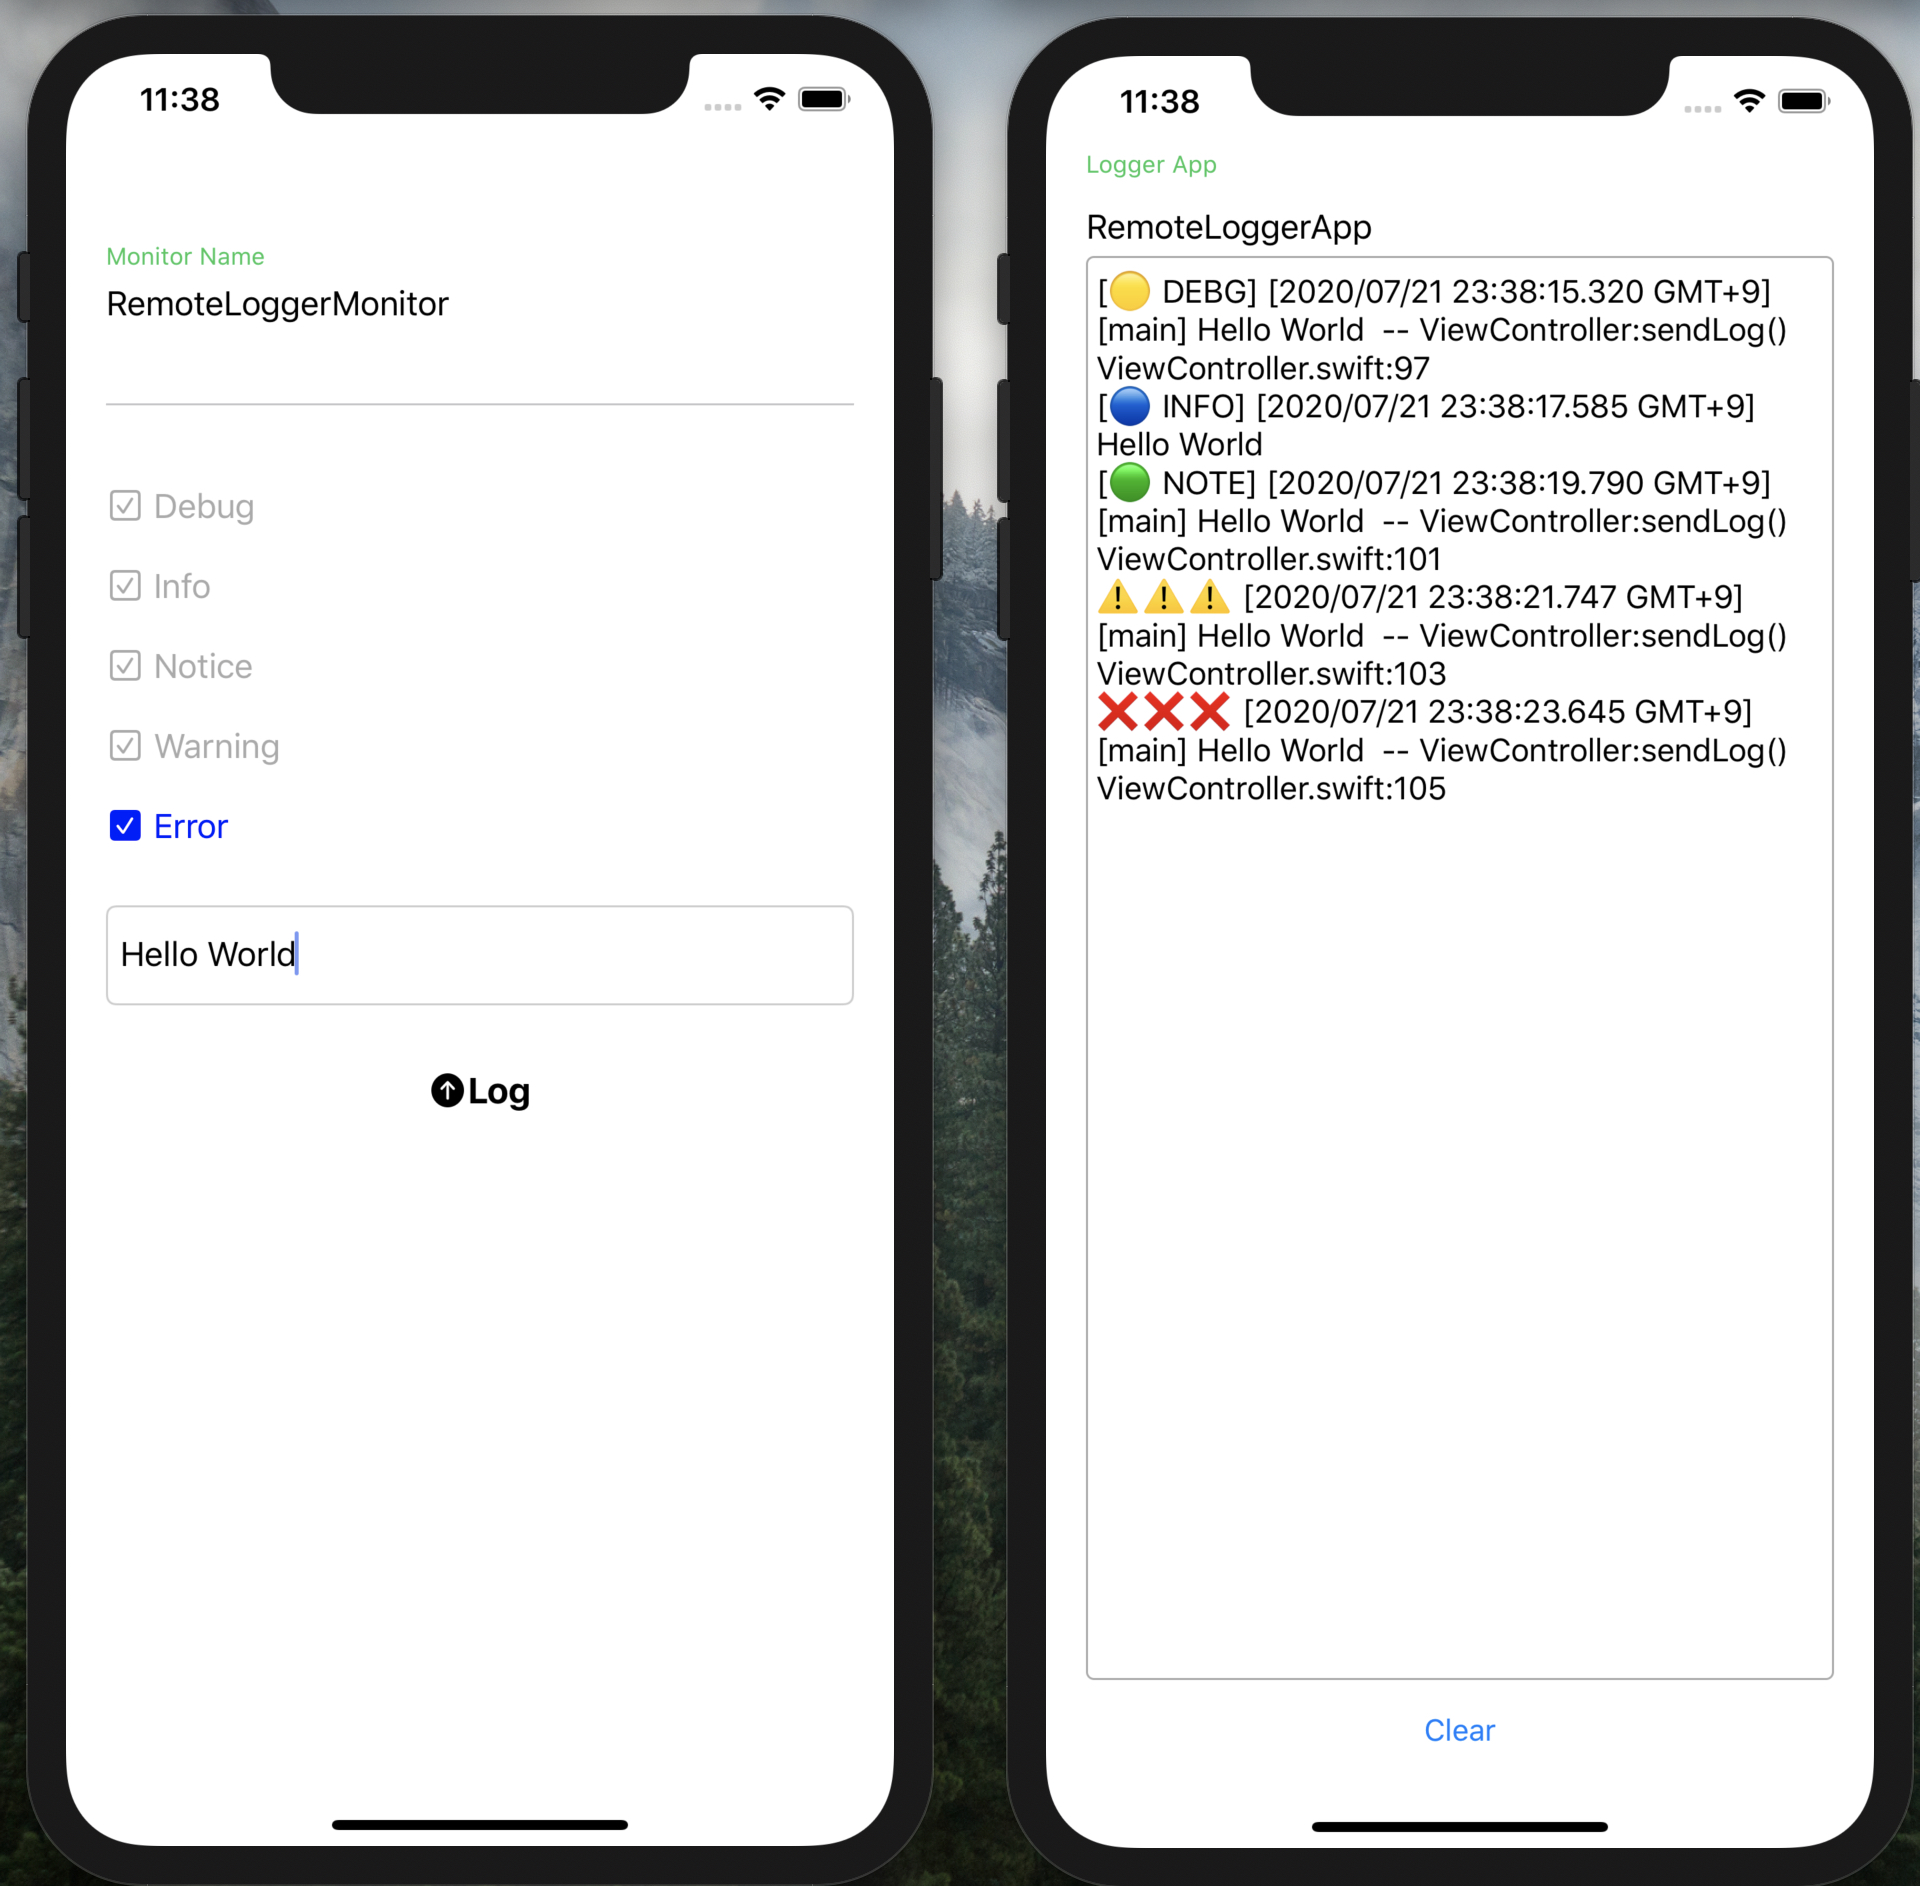
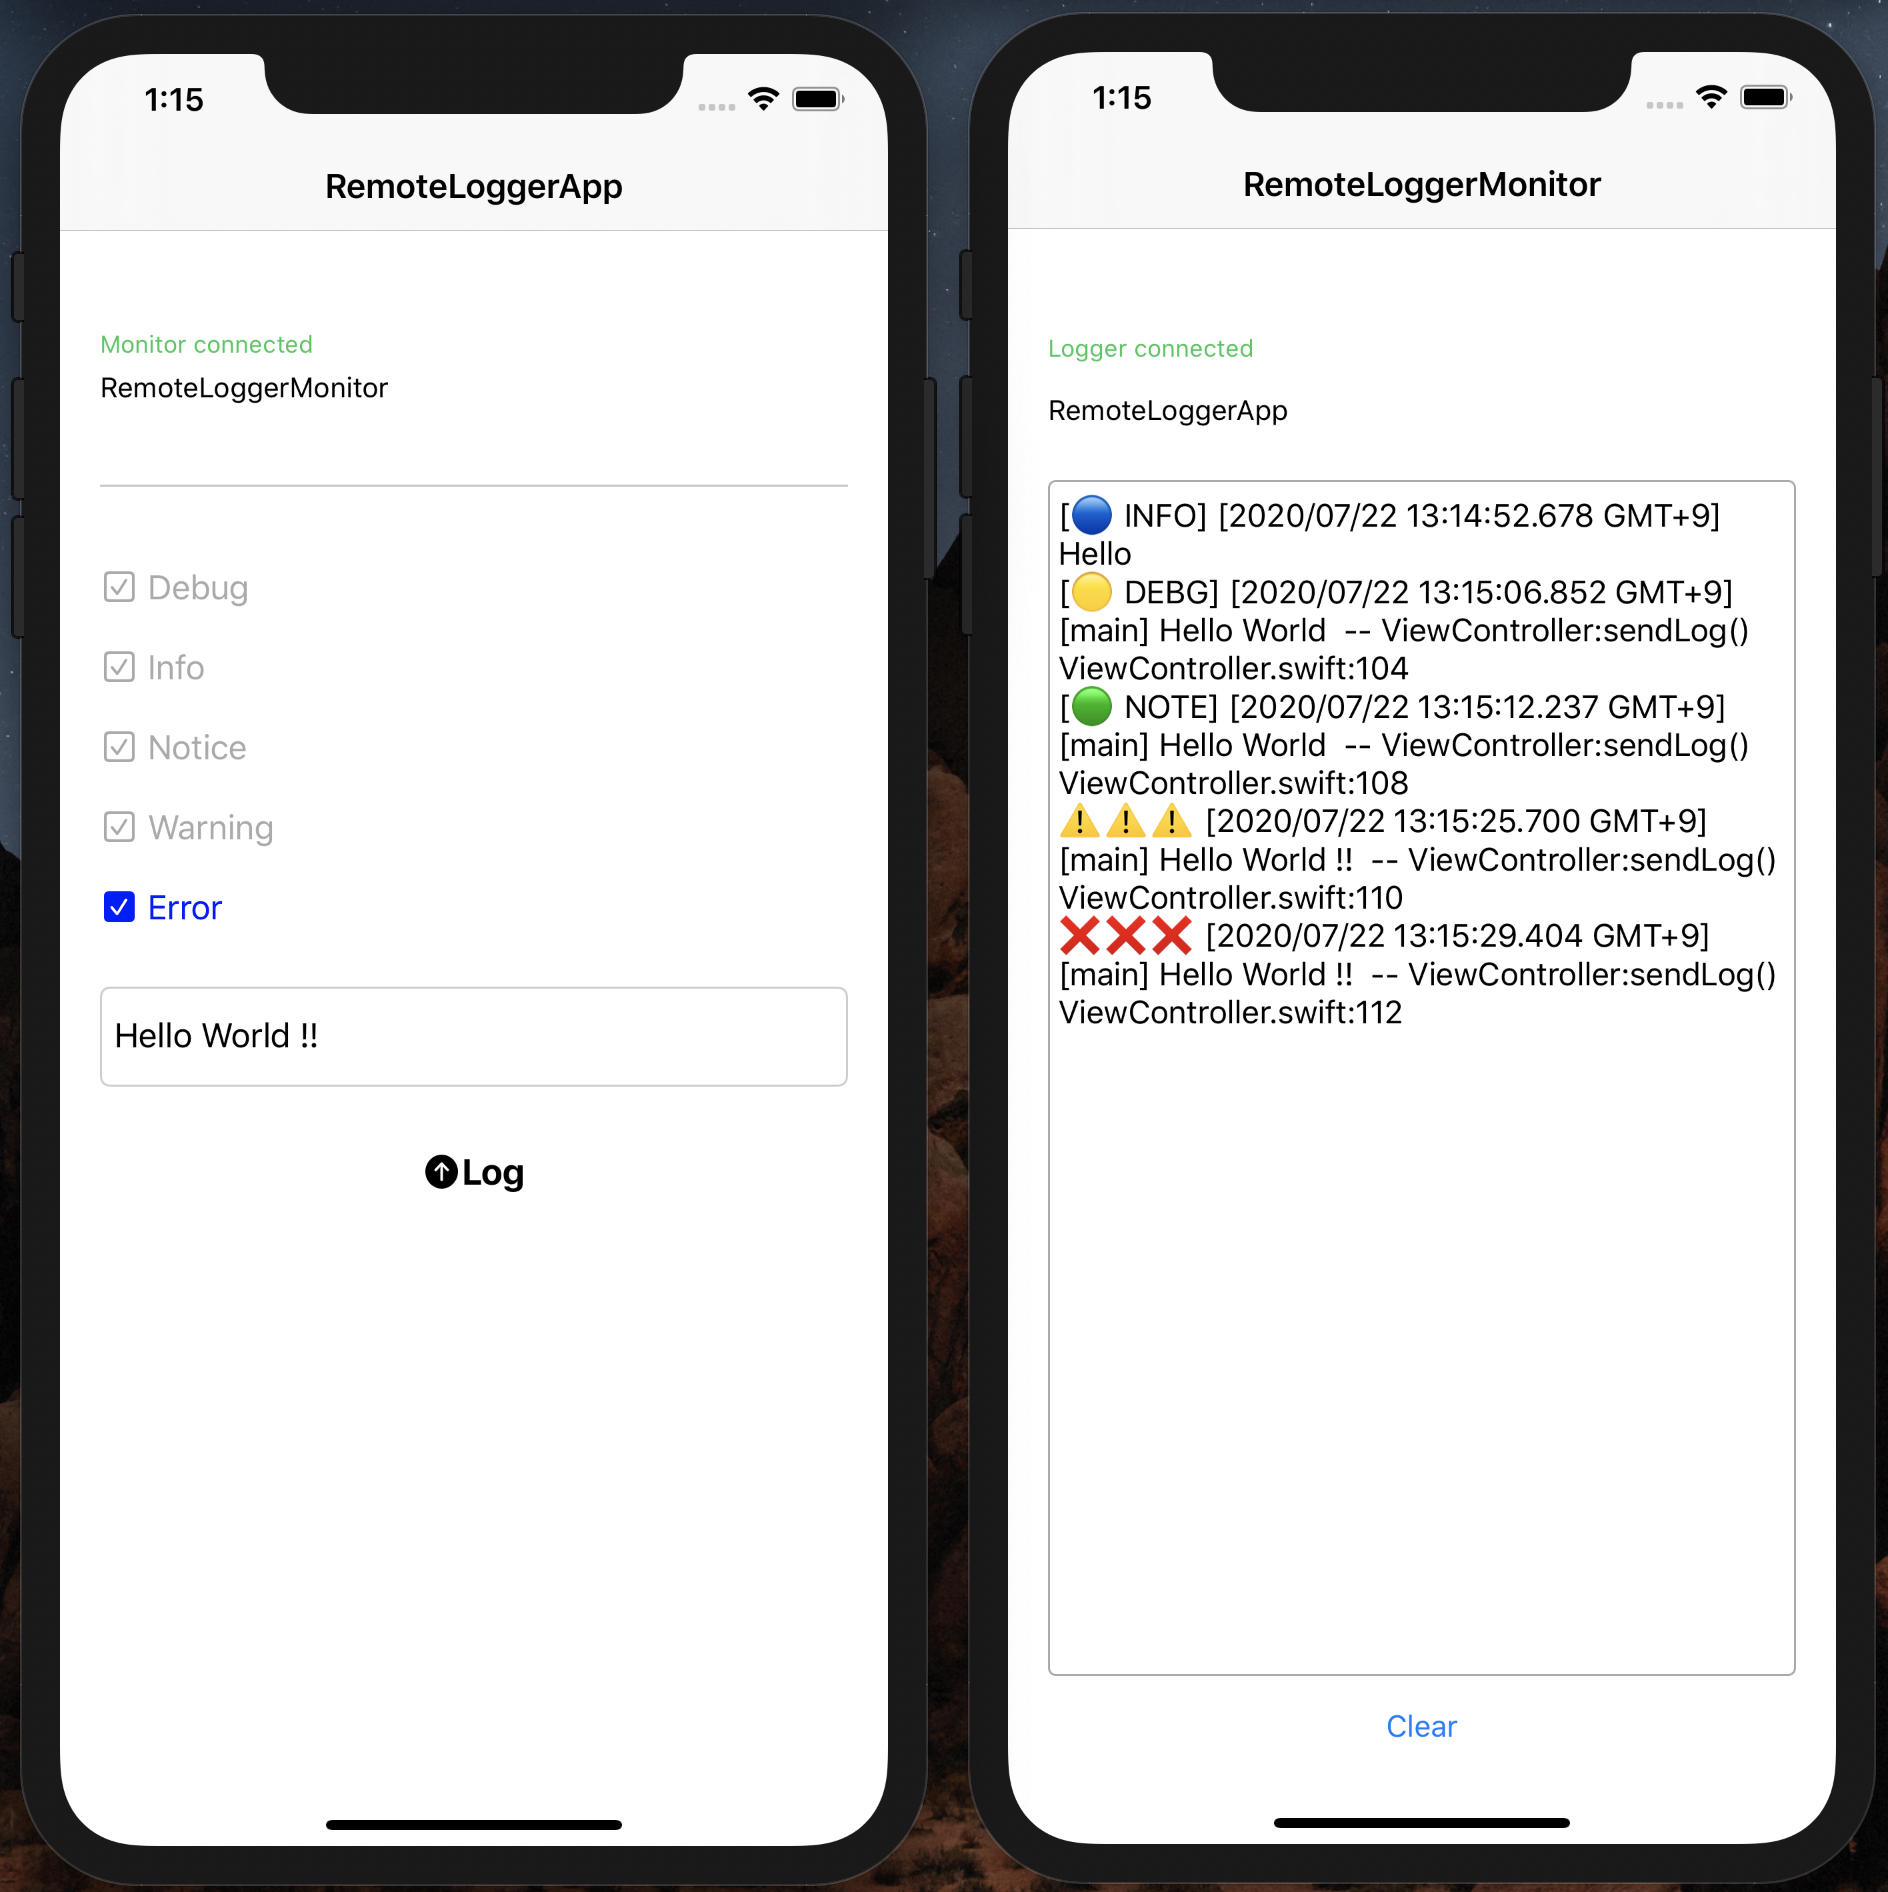
Improved views

diff --git a/RemoteLoggerMonitor/RemoteLoggerMonitor/ViewController.swift b/RemoteLoggerMonitor/RemoteLoggerMonitor/ViewController.swift
@@ -12,9 +12,9 @@ import PPublisher
 import UIKit
 
 class ViewController: UIViewController {
-    let monitor = RemoteLoggerMonitor()
-//    var flowLayout: UICollectionViewFlowLayout!
-//    var collectionView: UICollectionView!
+    private let monitor = RemoteLoggerMonitor()
+    private var appName: String?
+    private var logall: String = ""
 
     @IBOutlet weak var loggerName: UILabel!
     @IBOutlet weak var collectionParentView: UIView!
@@ -24,10 +24,11 @@ class ViewController: UIViewController {
         textView.text = logall
     }
 
-    var logall: String = ""
-
     override func viewDidLoad() {
         super.viewDidLoad()
+
+        appName = Bundle.main.object(forInfoDictionaryKey: "CFBundleName") as? String
+        title = appName
 
         collectionParentView.layer.borderWidth = 1.0
         collectionParentView.layer.borderColor = UIColor.lightGray.cgColor
@@ -46,36 +47,3 @@ class ViewController: UIViewController {
         monitor.strat()
     }
 }
-
-// extension ViewController {
-
-// func configure() {
-//        flowLayout = ColumnFlowLayout()
-//        collectionView = UICollectionView(frame: view.bounds, collectionViewLayout: flowLayout)
-//        collectionView.autoresizingMask = [.flexibleWidth, .flexibleHeight]
-//        collectionView.backgroundColor = UIColor.systemBackground
-//        collectionView.alwaysBounceVertical = true
-//        view.addSubview(collectionView)
-//
-//        collectionView.register(UICollectionViewCell.self, forCellWithReuseIdentifier: "UICollectionViewCell")
-//
-//        collectionView.dataSource = self
-//        collectionView.delegate = self
-// }
-// }
-
-// extension ViewController: UICollectionViewDataSource, UICollectionViewDelegate {
-
-//    func collectionView(_ collectionView: UICollectionView, numberOfItemsInSection section: Int) -> Int {
-//        <#code#>
-//    }
-//
-//    func collectionView(_ collectionView: UICollectionView, cellForItemAt indexPath: IndexPath) -> UICollectionViewCell {
-//        <#code#>
-//    }
-// }
-
-//
-// class ColumnFlowLayout: UICollectionViewFlowLayout {
-//
-// }

diff --git a/RemoteLoggerApp/RemoteLoggerApp/ViewController.swift b/RemoteLoggerApp/RemoteLoggerApp/ViewController.swift
@@ -8,7 +8,9 @@
 
 import Logger
 import PPublisher
-import RemoteLogger
+#if canImport(RemoteLogger)
+    import RemoteLogger
+#endif
 import UIKit
 
 let log = Logger.remoteLogger()
@@ -17,6 +19,7 @@ class ViewController: UIViewController {
     private var checkButtonType: CheckButtonType?
     private var bag = SubscriptionBag()
     private var keyboardManager = KeyboardManager.shared
+    private var appName: String?
     @IBOutlet weak var top: NSLayoutConstraint!
     @IBOutlet weak var bottom: NSLayoutConstraint!
     @IBOutlet weak var targetViewToScroll: UIView!
@@ -60,6 +63,10 @@ class ViewController: UIViewController {
     override func viewDidLoad() {
         super.viewDidLoad()
 
+        appName = Bundle.main.object(forInfoDictionaryKey: "CFBundleName") as? String
+
+        title = appName
+
         for button in checkButton.enumerated() {
             if button.element.tag == 0 {
                 updateCheckBox(index: button.offset)
@@ -70,7 +77,7 @@ class ViewController: UIViewController {
 
         log.monitorNamePublisher.subscribe(self) { [weak self] name in
             self?.monitorNameLabel.text = name
-            log.myname = Bundle.main.object(forInfoDictionaryKey: "CFBundleName") as! String
+            log.myname = self?.appName ?? ""
         }
         .unsubscribed(by: bag)
     }

diff --git a/RemoteLoggerApp/RemoteLoggerApp/Tools/KeyboardManager.swift b/RemoteLoggerApp/RemoteLoggerApp/Tools/KeyboardManager.swift
@@ -6,6 +6,7 @@
 //  Copyright (c) 2017 k2moons. All rights reserved.
 //
 
+import Logger
 import UIKit
 
 public final class KeyboardManager {
@@ -15,6 +16,8 @@ public final class KeyboardManager {
     }
 
     // MARK: - Property
+
+    private let log = Logger()
 
     // キーボードが表示された時の挙動を（子クラスで）記述する
     public private(set) var keyboardHandler: ((_ type: KeyboardManager.Action, _ height: CGFloat, _ duration: TimeInterval) -> Void)?

diff --git a/README.md b/README.md
@@ -2,6 +2,7 @@
 
 **RemoteLogger is the logging tool for output log to the another device through local network**
 
+It means you can see your app's log on a real iPhone/iPad device by another one at anywhere if they are in the same local network.
 
 
 ![capmovie1](./cap0.jpg)
@@ -10,9 +11,9 @@
 
 ## Restriction
 
-RemoteLogger works only after iOS13. Because it uses Network Framework.
+RemoteLogger works only after iOS13 since it uses Network Framework.
 
-And core modules come from [Apple's example](https://developer.apple.com/documentation/network/building_a_custom_peer-to-peer_protocol). So if you use this code, you must comply with the [license](./LICENSE.txt)
+The network core modules come from [Apple's example](https://developer.apple.com/documentation/network/building_a_custom_peer-to-peer_protocol). So if you use this code, you must comply with the [license](./LICENSE.txt)
 
 ```
 Copyright © 2019 Apple Inc.
@@ -30,7 +31,4 @@ THE SOFTWARE IS PROVIDED "AS IS", WITHOUT WARRANTY OF ANY KIND, EXPRESS OR IMPLI
 
 Usage is just simple.
 
-
-
-Logger App
-
+sorry, not yet written.
